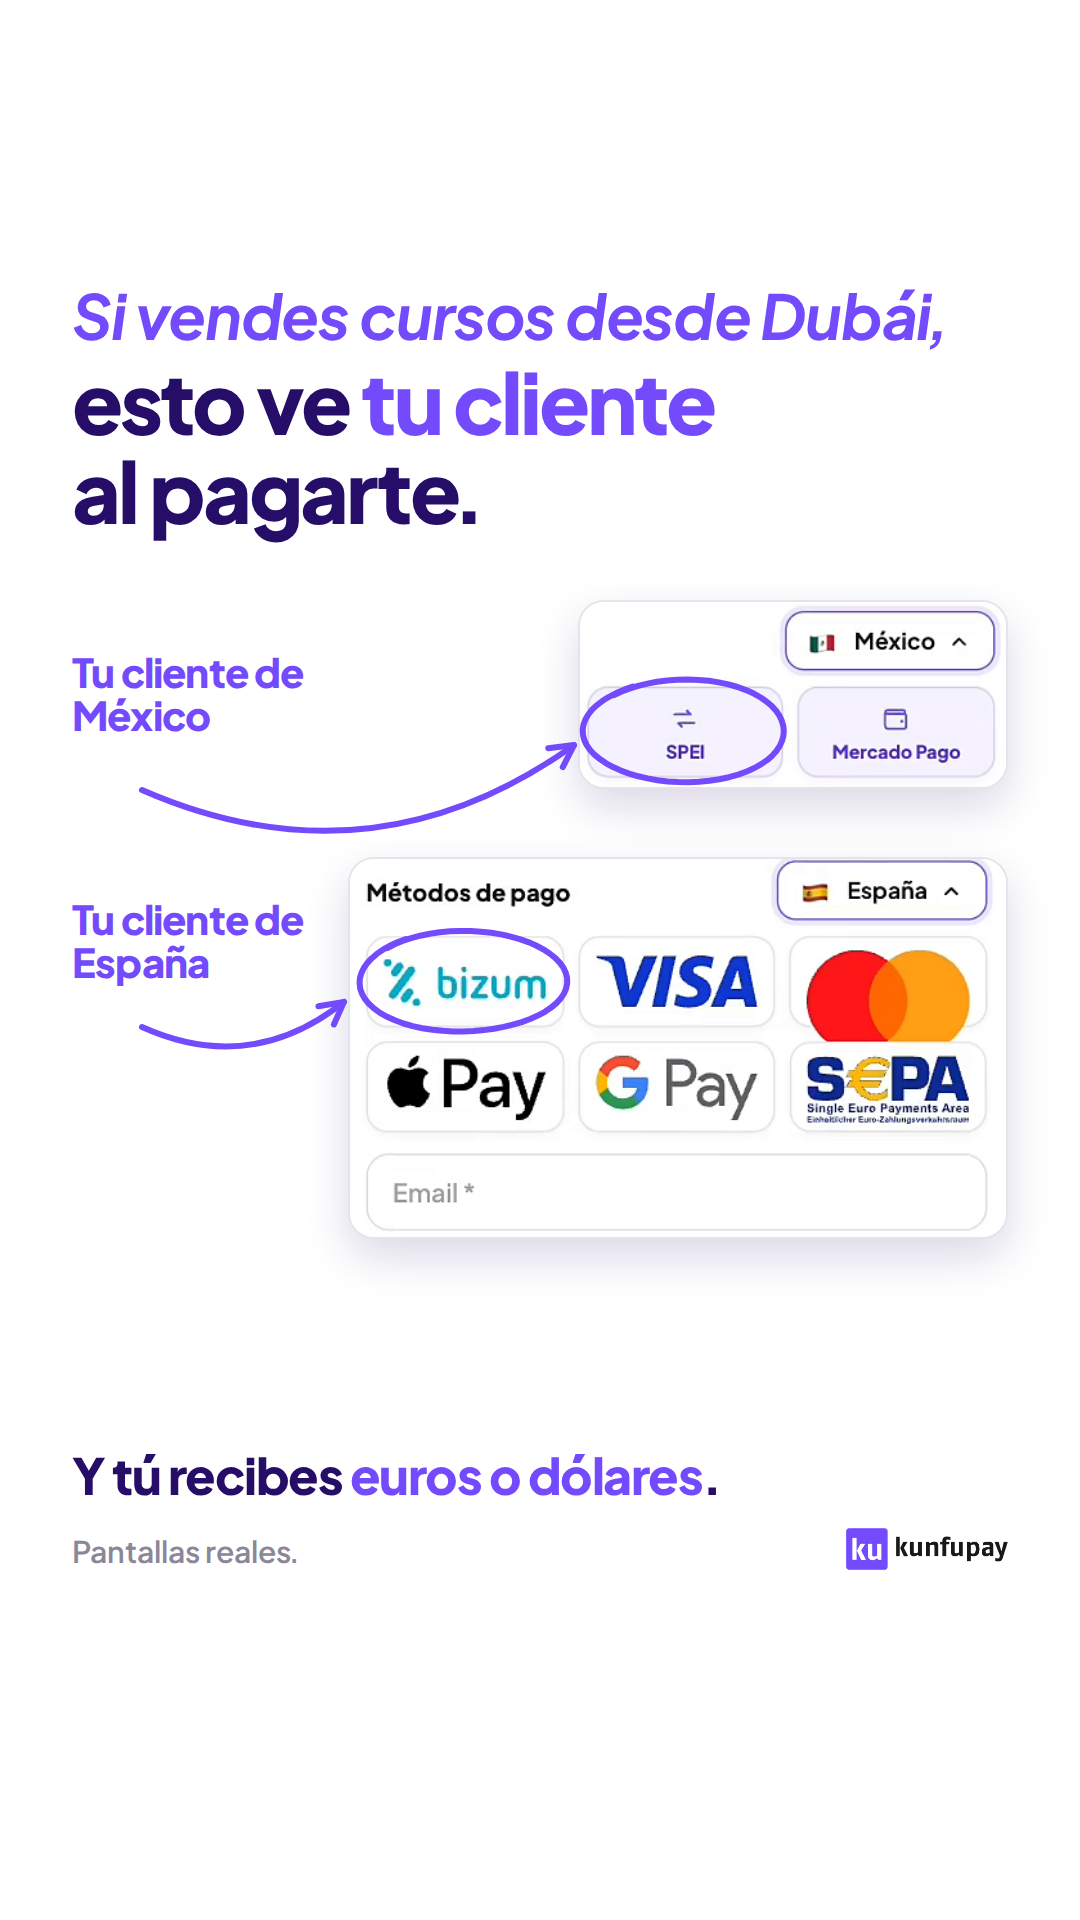
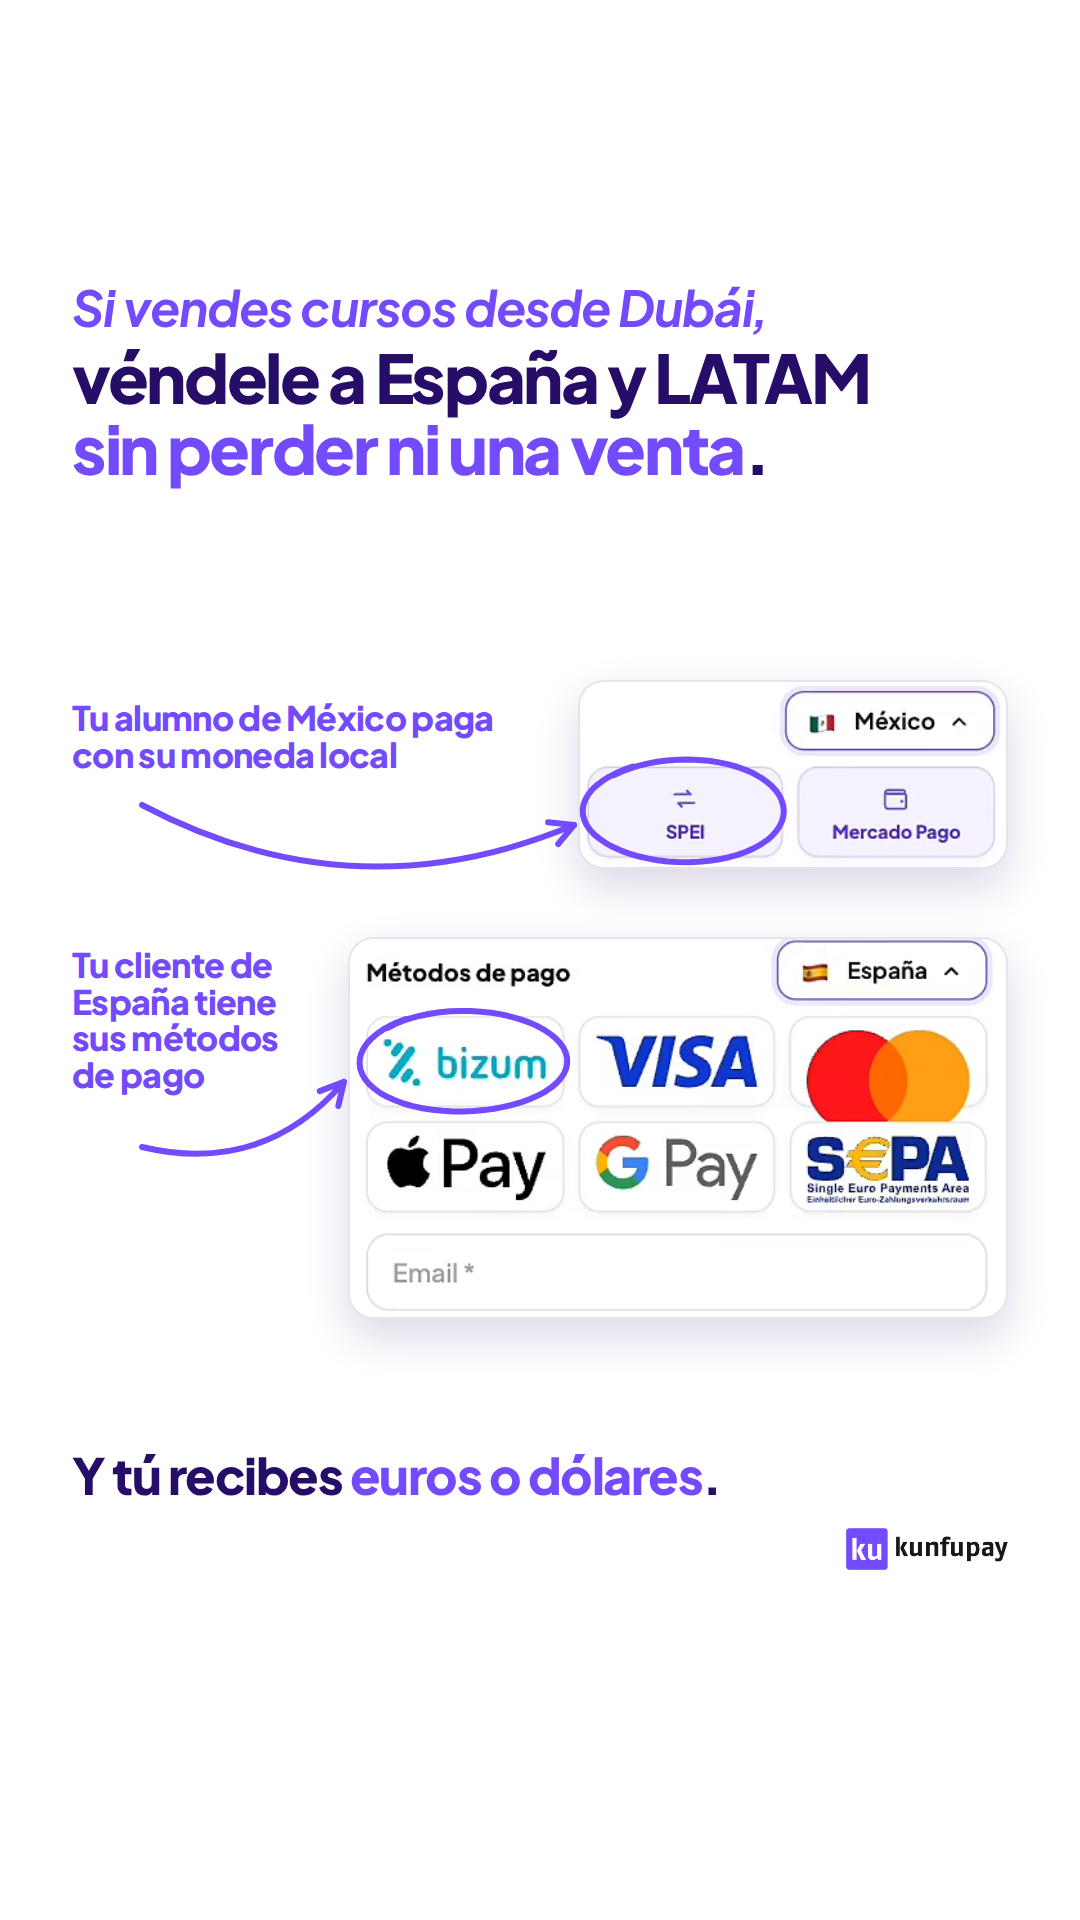
HUBS V2.1: E1 en formato tweet de Rubén, E3 con beneficio y E5 noticia
E3 con titular de beneficio, notas de moneda local y métodos de cada
cliente, sin «Pantallas reales». Nuevo E5 en formato noticia con foto de
la ciudad y la tarjeta de Kunfupay en el círculo rojo.

Claude-Session: https://claude.ai/code/session_01CrG1buW4YQaBwXCV6dNp28

Changed region(s): [[0.0611, 0.3125, 0.9472, 0.7188], [0.0611, 0.1562, 0.8861, 0.2812], [0.0611, 0.7812, 0.275, 0.8125]]

diff --git a/creatividades/metodos-de-pago/hubs/HUBS-V2-BENEFICIOS.md b/creatividades/metodos-de-pago/hubs/HUBS-V2-BENEFICIOS.md
@@ -13,14 +13,14 @@
   - «Entra y mira si tu negocio encaja.»
   - «Kunfupay es una empresa de tecnología financiera, no un banco. Las cuentas y tarjetas las prestan partners financieros con licencia.»
 
-**Archivos:** `estaticos/HUB-{HUB}-E{1-4}_1080x1350.png` (feed) y `_1080x1920.png` (Stories). Se sobrescribieron los anteriores.
+**Archivos:** `estaticos/HUB-{HUB}-E{1-5}_1080x1350.png` (feed) y `_1080x1920.png` (Stories). E1 va en formato tweet de Rubén y E5 es la noticia con la foto de la ciudad.
 
 ---
 
 ## LATAM
 
-### E1 · Dolor
-- **Imagen:** «*Si vendes cursos desde Latinoamérica,* pierdes hasta un 27 % de tus ventas al cobrar.» · «Kunfupay: un enlace para que te pague cualquier alumno, sea de donde sea.» · «Descubre cómo ↓»
+### E1 · Dolor (formato tweet de Rubén)
+- **Imagen (tweet de Rubén Romero, @rubenromero_kunfupay):** «Si vendes cursos desde Latinoamérica, estás perdiendo hasta un 27 % de tus ventas al cobrar. Existe una forma de que te pague cualquier alumno, sea de donde sea, y recibir euros o dólares. Descúbrela haciendo clic.»
 - **Texto:**
   ```text
   Si vendes cursos desde Latinoamérica, pierdes hasta un 27 % de tus ventas al cobrar.
@@ -63,7 +63,7 @@
 - **Título:** Vendes lo mismo, cobras a más alumnos
 
 ### E3 · Así te paga cada uno
-- **Imagen:** «*Alumnos en otros países:* así te paga cada uno con tu enlace.» · notas «Tu alumno de Colombia» · «Tu alumno de España» · «Y tú recibes euros o dólares.» · «Pantallas reales.»
+- **Imagen:** «*Si vendes cursos desde Latinoamérica,* cobra a alumnos de cualquier país con un solo enlace.» · notas «Tu alumno de Colombia paga con su moneda local» · «Tu alumno de España tiene sus métodos de pago» · «Y tú recibes euros o dólares.»
 - **Texto:**
   ```text
   Alumnos en otros países: así te paga cada uno con tu enlace.
@@ -72,7 +72,6 @@
   Cada alumno lo abre y paga con lo que usa en su país.
   Y tú recibes euros o dólares.
 
-  Son pantallas reales.
 
   Haz clic y descubre cómo.
   ```
@@ -95,12 +94,26 @@
   ```
 - **Título:** Hasta un 30 % más, sin vender más
 
+### E5 · Noticia
+- **Imagen:** foto de la ciudad en alta resolución, círculo con aro rojo con la tarjeta de Kunfupay, etiqueta roja «Actualidad» y titular «Ya puedes cobrar desde Latinoamérica a alumnos de todo el mundo sin Stripe ni PayPal.»
+- **Texto:**
+  ```text
+  Ya puedes cobrar desde Latinoamérica a alumnos de todo el mundo, sin Stripe ni PayPal.
+  
+  Un solo enlace.
+  Cada alumno paga como paga en su país.
+  Y tú recibes euros o dólares.
+  
+  Haz clic y descubre cómo.
+  ```
+- **Título:** Ya puedes cobrar sin Stripe ni PayPal
+
 ---
 
 ## Miami
 
-### E1 · Dolor
-- **Imagen:** «*Si vendes cursos desde Miami y cobras con Stripe,* pierdes hasta un 27 % de tu facturación.» · «Tus clientes de LATAM no pueden pagarte. Con Kunfupay, sí.» · «Descubre cómo ↓»
+### E1 · Dolor (formato tweet de Rubén)
+- **Imagen (tweet de Rubén Romero, @rubenromero_kunfupay):** «Si vendes cursos desde Miami y cobras con Stripe, estás perdiendo hasta un 27 % de tu facturación. Tus clientes de LATAM no pueden pagarte. Existe una forma de que te pague cualquiera y recibir dólares. Descúbrela haciendo clic.»
 - **Texto:**
   ```text
   Si vendes cursos desde Miami y cobras con Stripe, pierdes hasta un 27 % de tu facturación.
@@ -141,7 +154,7 @@
 - **Título:** Lo que te cuesta cobrar solo con Stripe
 
 ### E3 · Así te paga cada cliente
-- **Imagen:** «*Si vendes cursos desde Miami,* así te paga cada cliente de LATAM.» · notas «Tu cliente de Colombia» · «Tu cliente de México» · «Y tú recibes dólares.» · «Pantallas reales.»
+- **Imagen:** «*Si vendes cursos desde Miami,* véndele a toda LATAM y cobra en dólares.» · notas «Tu alumno de Colombia paga con su moneda local» · «Tu cliente de México tiene sus métodos de pago» · «Y tú recibes dólares.»
 - **Texto:**
   ```text
   Si vendes cursos desde Miami, así te paga cada cliente de LATAM.
@@ -150,7 +163,6 @@
   Lo abre y paga con lo que usa en su país.
   Y tú recibes dólares.
 
-  Son pantallas reales.
 
   Haz clic y descubre cómo.
   ```
@@ -172,12 +184,26 @@
   ```
 - **Título:** Hasta un 30 % más desde Miami
 
+### E5 · Noticia
+- **Imagen:** foto de la ciudad en alta resolución, círculo con aro rojo con la tarjeta de Kunfupay, etiqueta roja «Actualidad» y titular «Ya puedes cobrar a toda LATAM desde Miami sin Stripe ni PayPal.»
+- **Texto:**
+  ```text
+  Ya puedes cobrar a toda LATAM desde Miami, sin Stripe ni PayPal.
+  
+  Un solo enlace.
+  Cada cliente paga como paga en su país.
+  Y tú recibes dólares.
+  
+  Haz clic y descubre cómo.
+  ```
+- **Título:** Ya puedes cobrar sin Stripe ni PayPal
+
 ---
 
 ## Dubái
 
-### E1 · Qué es Kunfupay + dolor (formato texto)
-- **Imagen:** «*Si vendes cursos desde Dubái a España y LATAM,* tu pasarela de Emiratos te hace perder hasta un 27 % de tus ventas.» · «Kunfupay: un solo enlace para que te pague cualquier cliente. Tú recibes euros o dólares.» · «Descubre cómo ↓»
+### E1 · Qué es Kunfupay + dolor (formato tweet de Rubén)
+- **Imagen (tweet de Rubén Romero, @rubenromero_kunfupay):** «Si vendes cursos desde Dubái a España y LATAM, tu pasarela de Emiratos te está haciendo perder hasta un 27 % de tus ventas. Existe un solo enlace para que te pague cualquier cliente y recibir euros o dólares. Descúbrelo haciendo clic.»
 - **Texto:**
   ```text
   Si vendes cursos desde Dubái a España y LATAM, tu pasarela de Emiratos te hace perder hasta un 27 % de tus ventas.
@@ -208,7 +234,7 @@
 - **Título:** Lo que no aparece en tu Stripe
 
 ### E3 · Esto ve tu cliente (el que te gustó, con «tú recibes»)
-- **Imagen:** «*Si vendes cursos desde Dubái,* esto ve tu cliente al pagarte.» · notas «Tu cliente de México» · «Tu cliente de España» · «Y tú recibes euros o dólares.» · «Pantallas reales.»
+- **Imagen:** «*Si vendes cursos desde Dubái,* véndele a España y LATAM sin perder ni una venta.» · notas «Tu alumno de México paga con su moneda local» · «Tu cliente de España tiene sus métodos de pago» · «Y tú recibes euros o dólares.»
 - **Texto:**
   ```text
   Si vendes cursos desde Dubái, esto ve tu cliente al pagarte.
@@ -217,7 +243,6 @@
   Cada cliente paga con lo que usa en su país.
   Y tú recibes euros o dólares.
 
-  Son pantallas reales.
 
   Haz clic y descubre cómo.
   ```
@@ -238,12 +263,26 @@
   ```
 - **Título:** Hasta un 30 % más desde Dubái
 
+### E5 · Noticia
+- **Imagen:** foto de la ciudad en alta resolución, círculo con aro rojo con la tarjeta de Kunfupay, etiqueta roja «Actualidad» y titular «Ya puedes cobrar a España y LATAM desde Dubái sin Stripe ni PayPal.»
+- **Texto:**
+  ```text
+  Ya puedes cobrar a España y LATAM desde Dubái, sin Stripe ni PayPal.
+  
+  Un solo enlace.
+  Cada cliente paga como paga en su país.
+  Y tú recibes euros o dólares.
+  
+  Haz clic y descubre cómo.
+  ```
+- **Título:** Ya puedes cobrar sin Stripe ni PayPal
+
 ---
 
 ## Bali
 
-### E1 · Dolor
-- **Imagen:** «*Si vendes desde Bali a España y LATAM,* pierdes hasta un 27 % de tus ventas mientras duermes.» · «Kunfupay: un enlace para que cada cliente te pague solo, a cualquier hora.» · «Descubre cómo ↓»
+### E1 · Dolor (formato tweet de Rubén)
+- **Imagen (tweet de Rubén Romero, @rubenromero_kunfupay):** «Si vendes desde Bali a España y LATAM, estás perdiendo hasta un 27 % de tus ventas mientras duermes. Existe una forma de que cada cliente te pague solo, a cualquier hora, y recibir euros o dólares. Descúbrela haciendo clic.»
 - **Texto:**
   ```text
   Si vendes desde Bali a España y LATAM, pierdes hasta un 27 % de tus ventas mientras duermes.
@@ -286,7 +325,7 @@
 - **Título:** Despiértate con ventas cobradas
 
 ### E3 · Así te paga cada cliente
-- **Imagen:** «*Desde Bali, un enlace:* así te paga cada cliente.» · notas «Tu cliente de México» · «Tu cliente de España» · «Y tú recibes euros o dólares.» · «Pantallas reales.»
+- **Imagen:** «*Desde Bali,* cobra a España y LATAM aunque estés durmiendo.» · notas «Tu alumno de México paga con su moneda local» · «Tu cliente de España tiene sus métodos de pago» · «Y tú recibes euros o dólares.»
 - **Texto:**
   ```text
   Desde Bali, un enlace: así te paga cada cliente.
@@ -295,7 +334,6 @@
   Sin escribirte.
   Y tú recibes euros o dólares.
 
-  Son pantallas reales.
 
   Haz clic y descubre cómo.
   ```
@@ -314,6 +352,20 @@
   Haz clic y descubre cómo.
   ```
 - **Título:** Hasta un 30 % más, mientras duermes
+
+### E5 · Noticia
+- **Imagen:** foto de la ciudad en alta resolución, círculo con aro rojo con la tarjeta de Kunfupay, etiqueta roja «Actualidad» y titular «Ya puedes cobrar a España y LATAM desde Bali sin Stripe ni PayPal.»
+- **Texto:**
+  ```text
+  Ya puedes cobrar a España y LATAM desde Bali, sin Stripe ni PayPal.
+  
+  Un solo enlace, a cualquier hora.
+  Cada cliente paga como paga en su país.
+  Y tú recibes euros o dólares.
+  
+  Haz clic y descubre cómo.
+  ```
+- **Título:** Ya puedes cobrar sin Stripe ni PayPal
 
 ---
 
